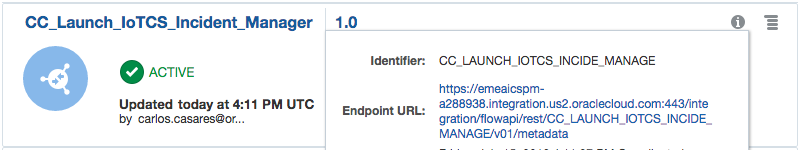
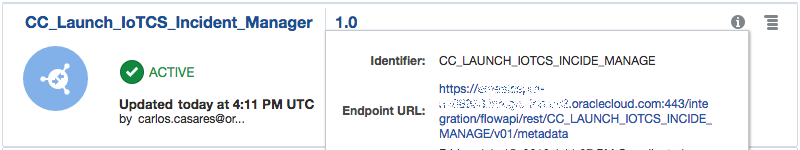
IoTCS

Changed region(s): [[0.5312, 0.6667, 0.7188, 0.72], [0.5938, 0.56, 0.6875, 0.64]]

diff --git a/README.md b/README.md
@@ -566,7 +566,7 @@ Feel free to model your own complex process and leverage other PaaS services!
   ![pcs_wsdl](screenshots/pcs_wsdl.png)
 
 > The URL has the following format:
-> `https://pcs-gse00000216.process.us2.oraclecloud.com/soa-infra/services/default/IoTCS_Incident`**`!1.0*soa_dda7800a-702d-482d-a3d2-2050ca4eb3a4`**`/ReviewIncident.service?WSDL`
+> `https://xxxxxxxxxxx.process.us2.oraclecloud.com/soa-infra/services/default/IoTCS_Incident`**`!1.0*soa_dda7800a-702d-482d-a3d2-2050ca4eb3a4`**`/ReviewIncident.service?WSDL`
 > You better safely remove the **highlighted** data when using the URL later. That way, should you re-deploy de process, the URL will still be valid.
 
 2. A new PCS Role should have been created. You need to add yourself as a member:
@@ -607,9 +607,22 @@ After the activation, get the service URL by clicking the `i` (Info) icon:
 
   ![service url](screenshots/service url.png)
 
-Take note of the URL. We will be using it shortly.
+Take note of the Endpoint URL. We will be using it shortly.
 
 ### Oracle IoTCS setup (Server side) (3)
 #### Create and setup your application (2)
+Last step in all this process is to connect IoTCS with our brand new ICS service, which in turn will invoke and trigger the PCS process.
+
 ##### Create the enterprise application integration
+Login to your IoTCS instance and open your Application. Click the `Integration` icon on the left. Click the `+` button to add a new integration and select `Enterprise Application` type. Set a name and use the just obtained REST service URL as the `URL` setting. Click `Create` button.
+
+Once created, select it and click the _pencil_ button to set the final settings.
+
+* Go to the `Connection` tab, check the `Enable authentication for this URL` setting and type in the credentials used in the ICS `CC_EventFrom_IoTCS` connection (see [here](#cc_pcs_incident_management)).
+* Go to `Streams` tab and select the `ExplorationRemoveDups` message format.
+
+Click `Save` and you're done!!!
+
+Ready to run the whole tutorial end2end!
+
 ### Run the sample end2end!
